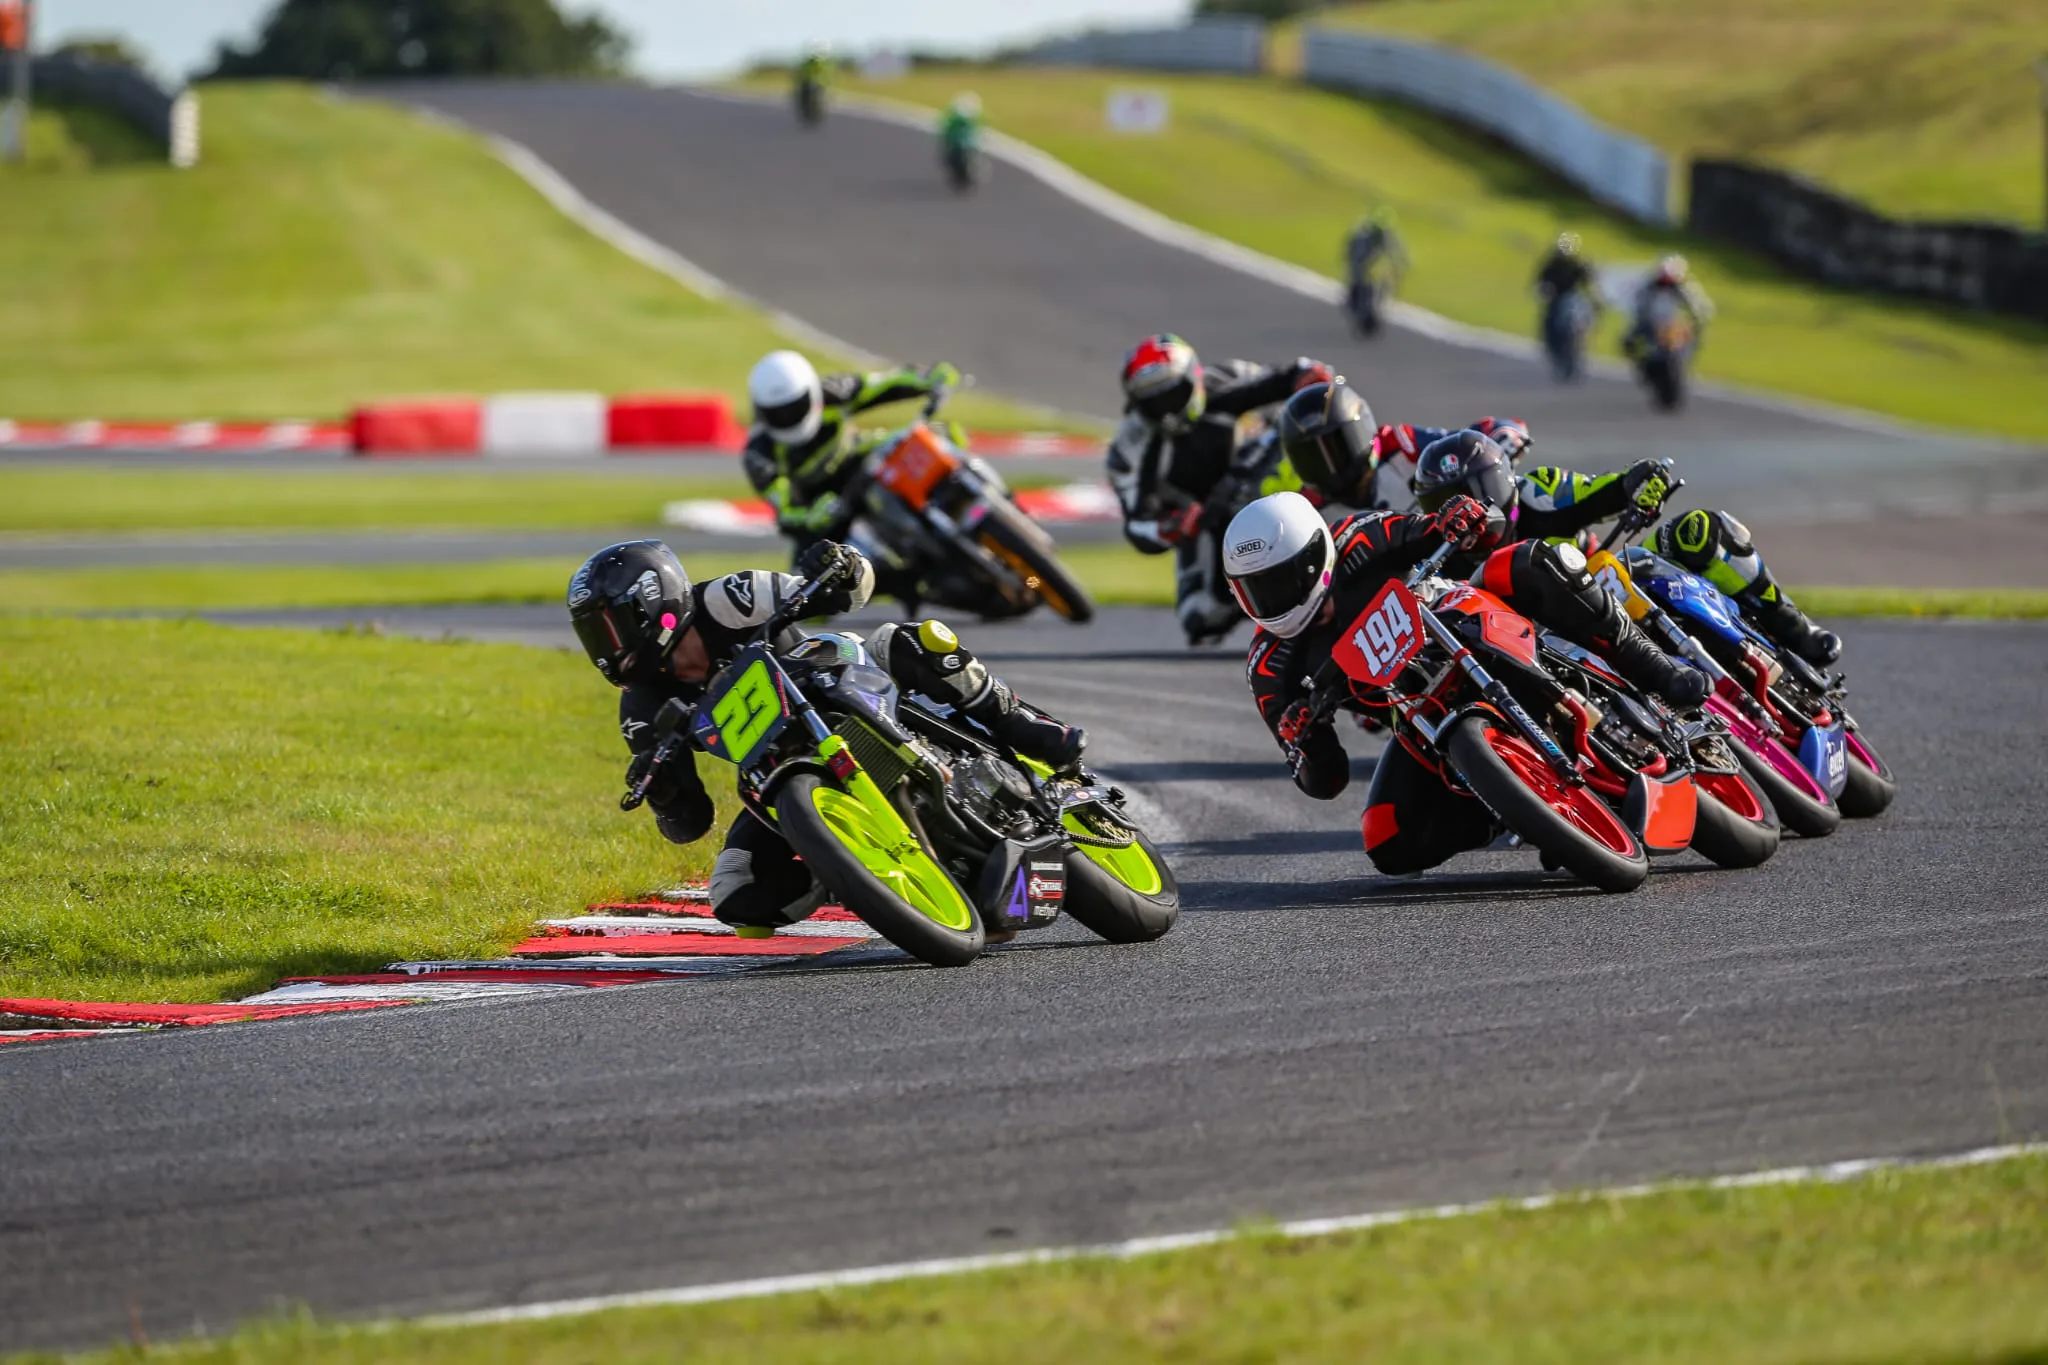
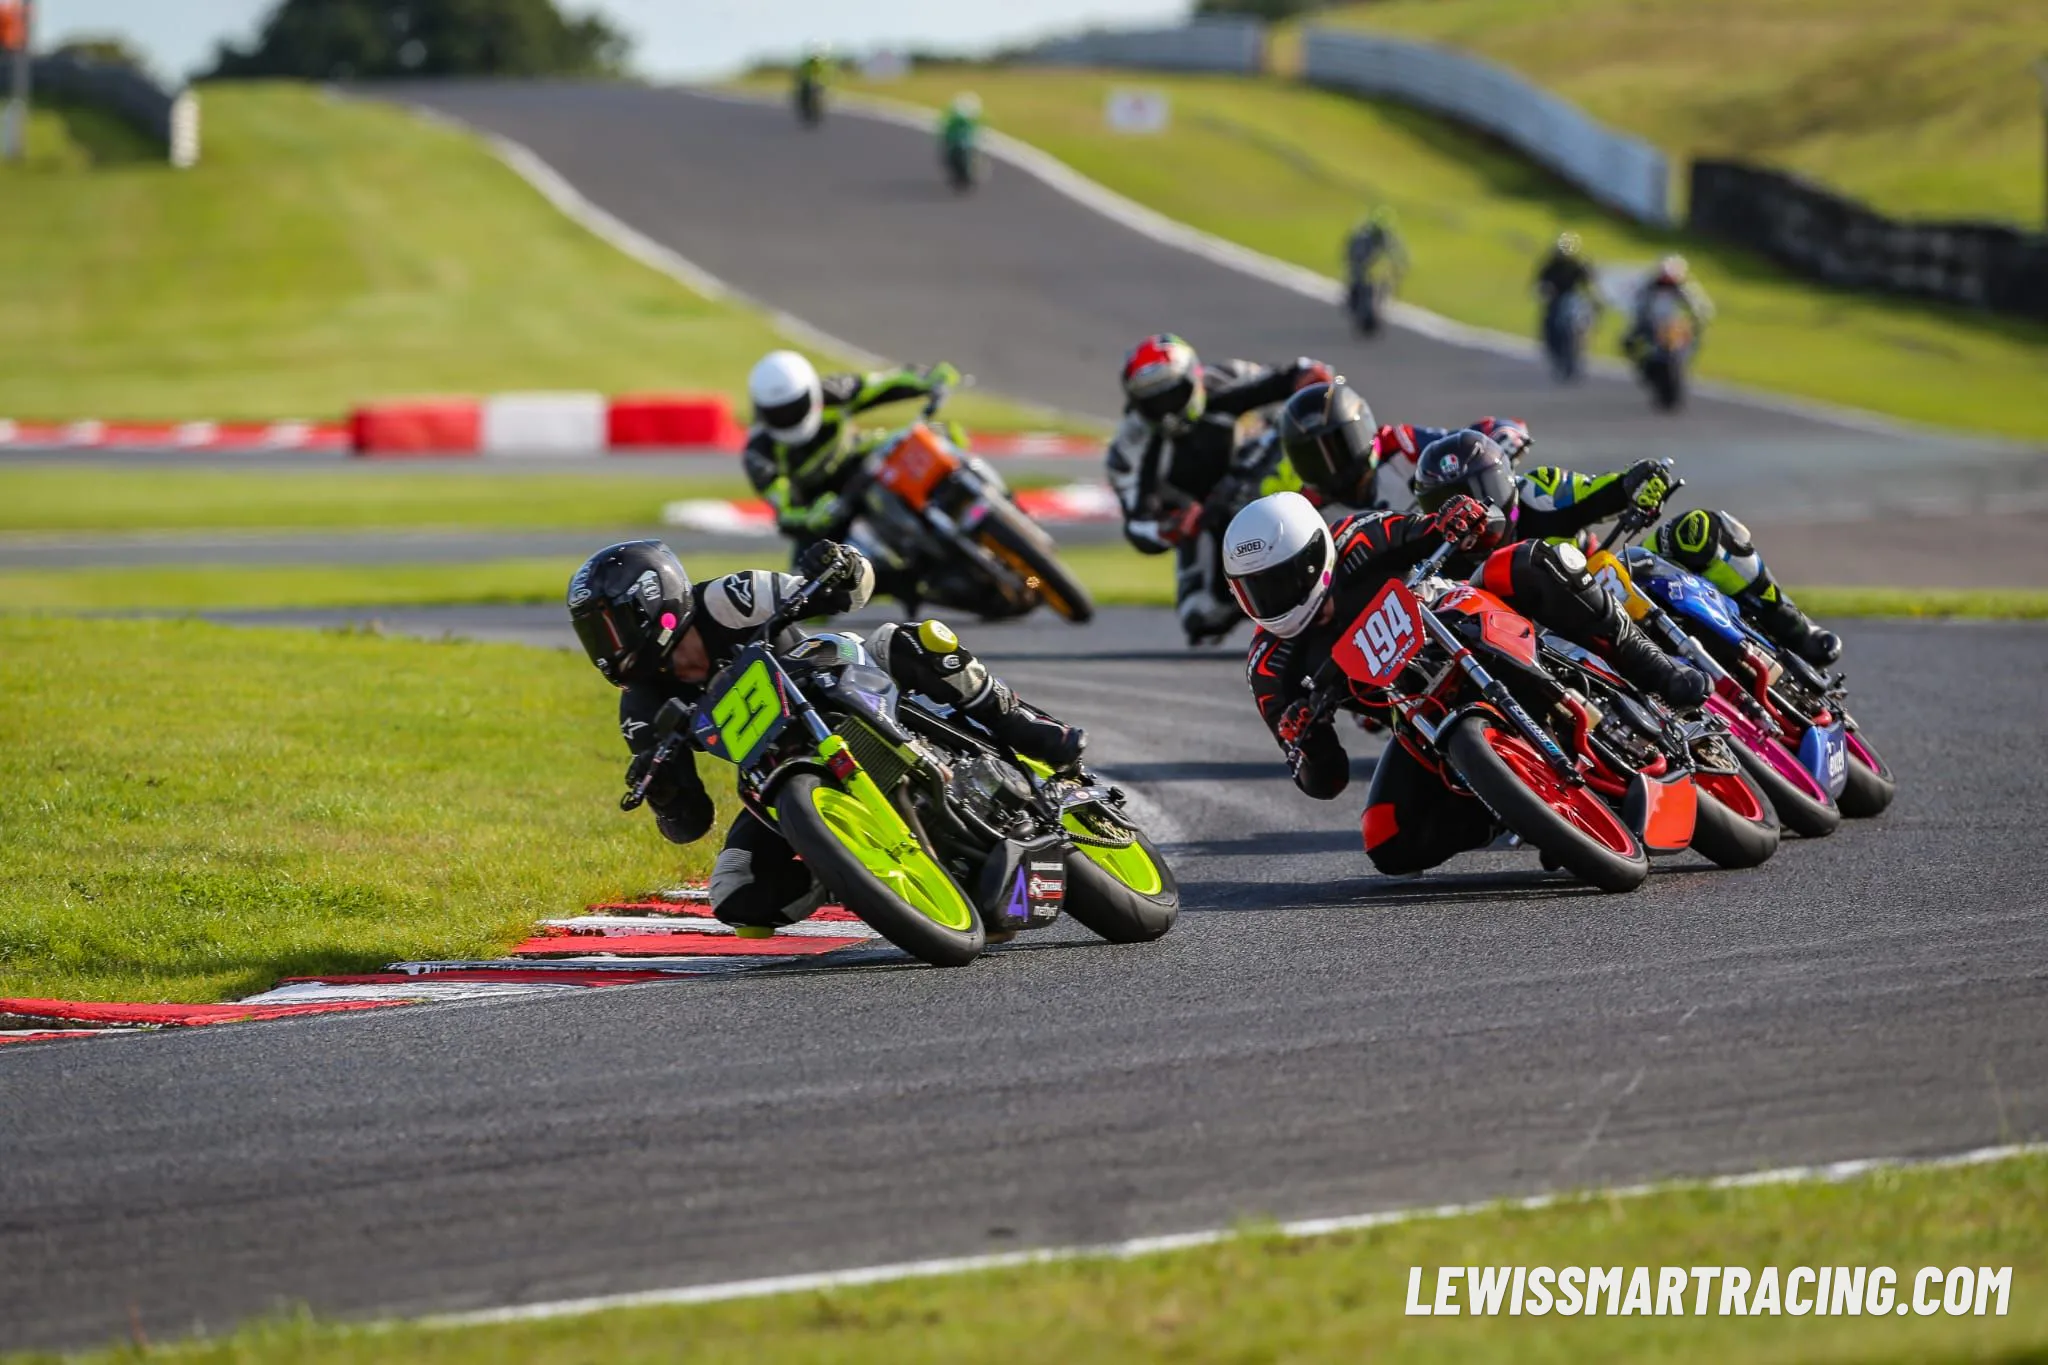
Gallery: site address watermark on every photo; lightbox pages through all photos in a loop

Changed region(s): [[0.6875, 0.9231, 1.0, 0.9846]]

diff --git a/CHANGELOG.md b/CHANGELOG.md
@@ -14,6 +14,7 @@ The format is based on [Keep a Changelog](https://keepachangelog.com/en/1.1.0/),
 ### Added
 
 - **Gallery photos**: Lewis's 14 photos from 2020 to 2026 on `/gallery/`, as WebP (a small thumbnail for the grid, full size in the lightbox), with the 2025 Triumph track photo as the link preview image. `npm run gallery` rebuilds them from `photos-src/gallery/`.
+- Gallery photos carry "LEWISSMARTRACING.COM" in the bottom-right corner. In the full-size viewer you can page forwards and backwards in a loop (arrows, keyboard or swipe), with a photo counter and caption.
 - **Club32** (`/club32/`): a 1-100 number board for the supporters' draw. Visitors pick numbers, reserve them for 24 hours and pay by bank transfer with their own reference (`C32-XXXXX`). Only first names are shown. Returning members get a personal presale link that holds their old number.
 - **Admin panel** (`/admin/`, login required, not indexed): confirm payments, extend or cancel holds, add cash sales, member board and CSV export, presale invitations, random or manual draws with a reveal screen for the live videos, winner emails, settings (bank details, price, hold time, sales on/off) and an activity log.
 - Cookie-free visit counter (`/api/hit.php`) with a Visitors page in the admin.

diff --git a/README.md b/README.md
@@ -145,7 +145,7 @@ The frames play only on screens 768 px and wider, and only when reduced motion i
    npm run gallery -- photos-src/gallery "2025 Triumph Factory Team on track.jpg"
    ```
 
-   Each photo becomes a full-size WebP for the lightbox (max 2400 px, quality 82) and a 960 px thumbnail for the grid in `public/images/gallery/`. The list goes to `src/data/gallery.json`. The second argument is the photo used for the link preview: it is cropped to 1200x630 and saved as `public/images/og-gallery.jpg`. That one stays JPG because not every link preview shows WebP.
+   Every photo gets the site address (`scripts/assets/watermark.svg`, Barlow Condensed as outlines) in the bottom-right corner. Each photo becomes a full-size WebP for the lightbox (max 2400 px, quality 82) and a 960 px thumbnail for the grid in `public/images/gallery/`. The list goes to `src/data/gallery.json`. The second argument is the photo used for the link preview: it is cropped to 1200x630 and saved as `public/images/og-gallery.jpg`. That one stays JPG because not every link preview shows WebP.
 
 ## Club32 and admin
 
